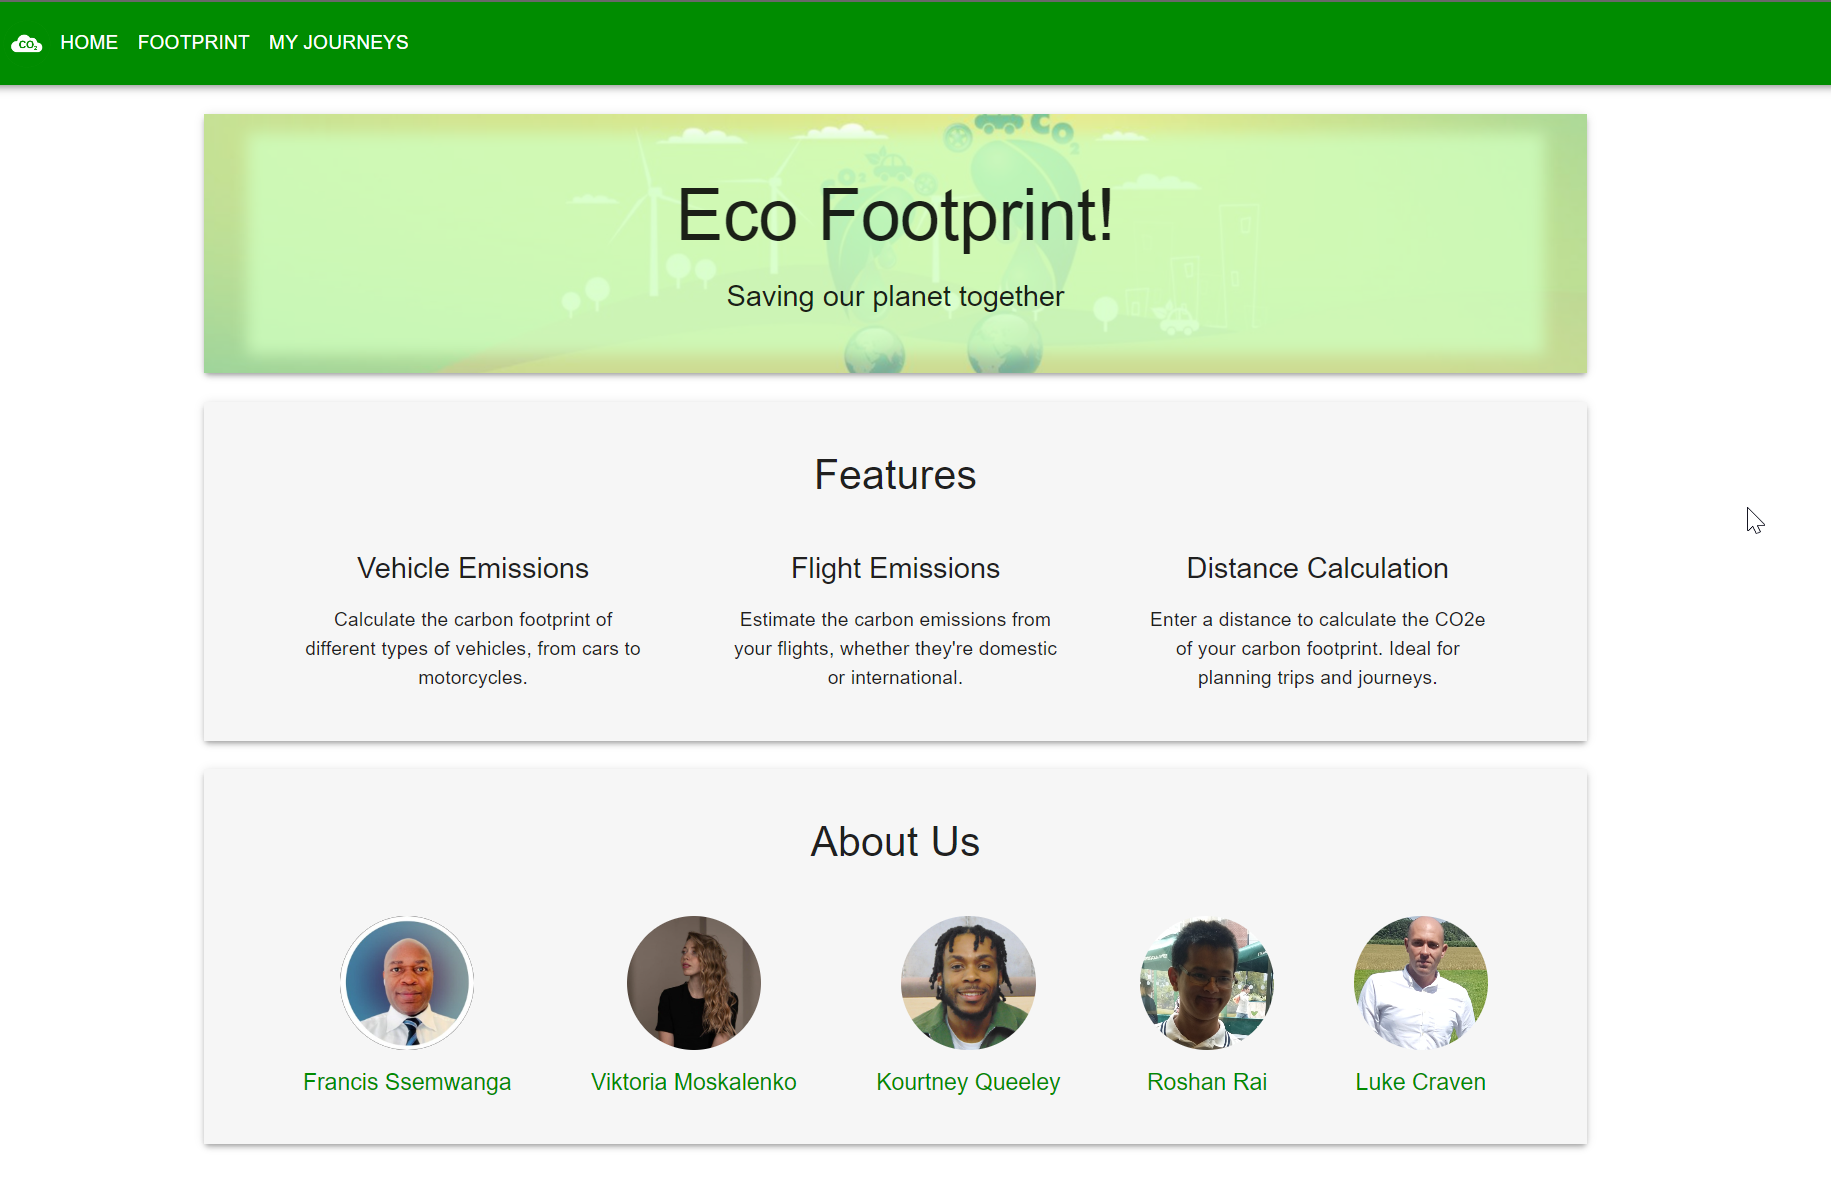
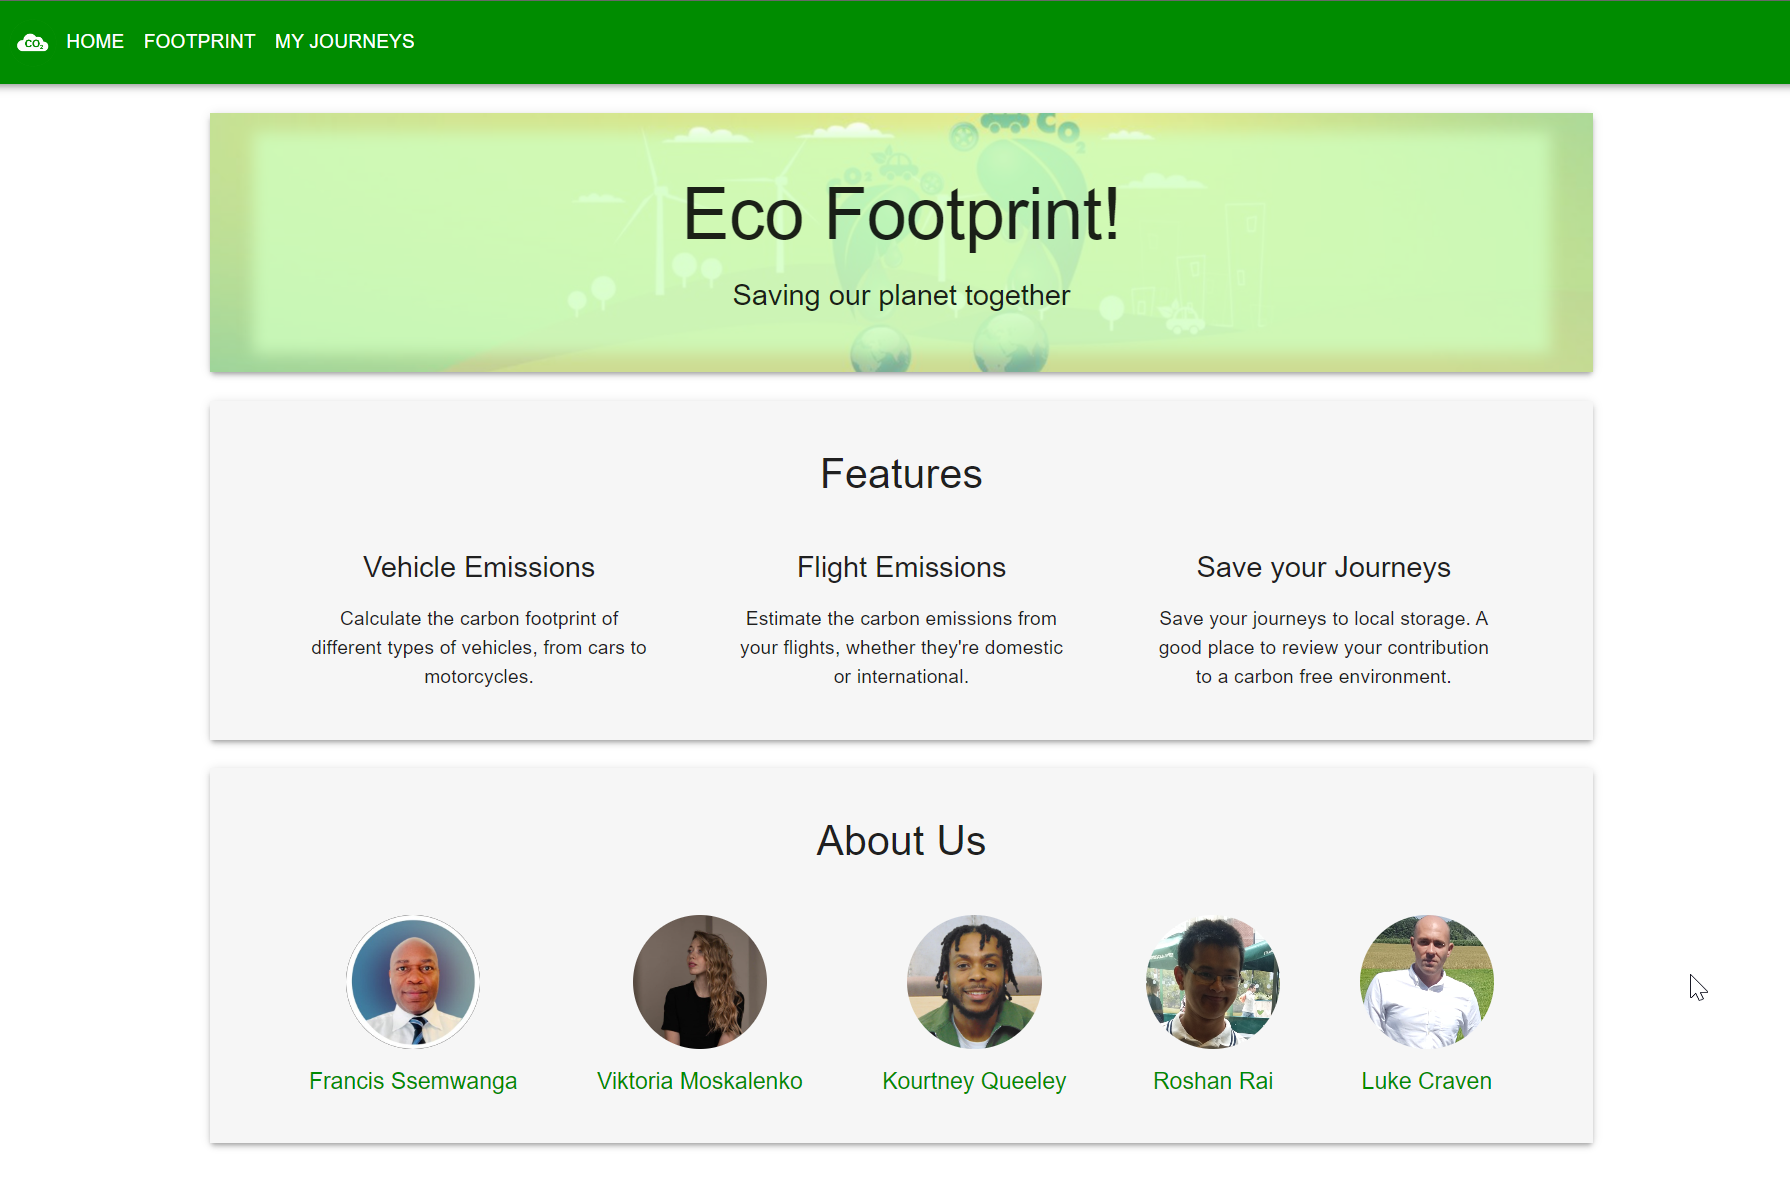
updated the features to remove distance calculation

diff --git a/src/components/Features.js b/src/components/Features.js
@@ -30,10 +30,10 @@ export const Features = () => {
             </Typography>
           </Stack>
           <Stack sx={{ width: "18rem", textAlign: "center" }} spacing={2}>
-            <Typography variant="h5">Distance Calculation</Typography>
+            <Typography variant="h5">Save your Journeys</Typography>
             <Typography component="p" variant="body1">
-              Enter a distance to calculate the CO2e of your carbon footprint.
-              Ideal for planning trips and journeys.
+              Save your journeys to local storage. A good place to review your
+              contribution to a carbon free environment.
             </Typography>
           </Stack>
         </Stack>
